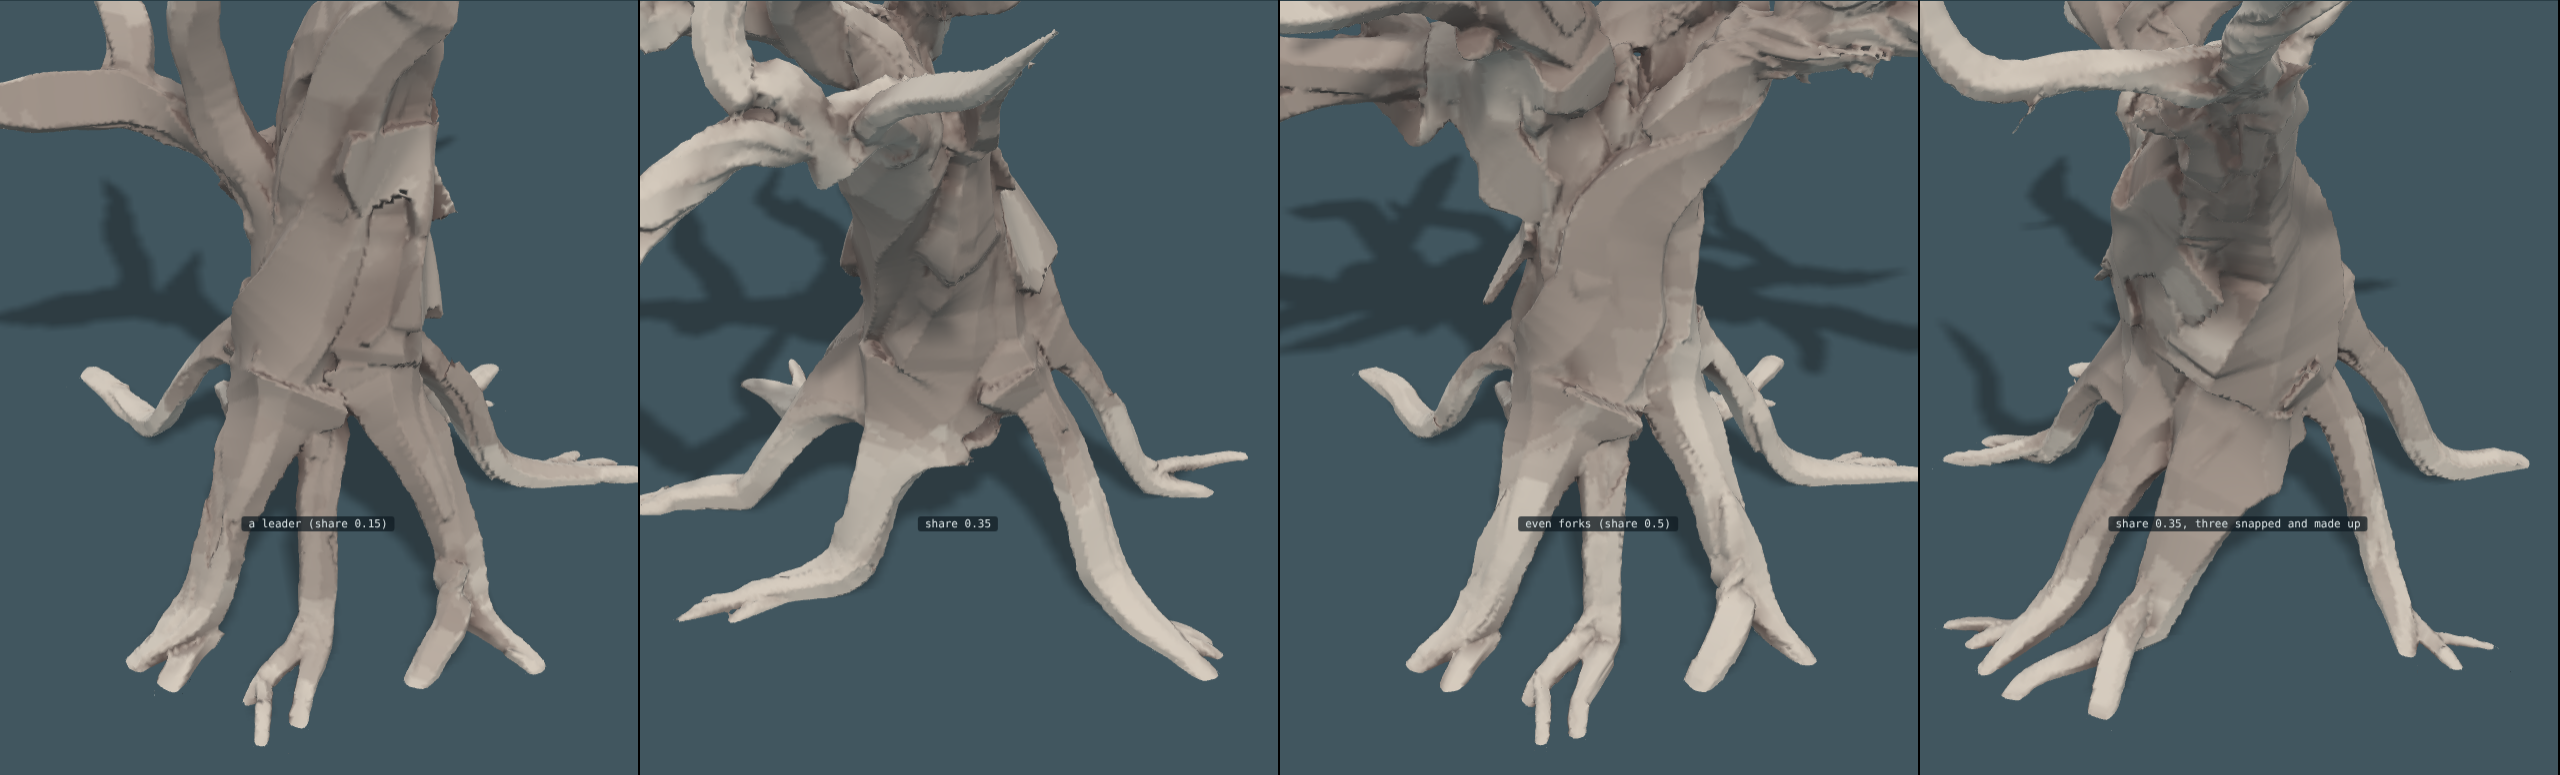
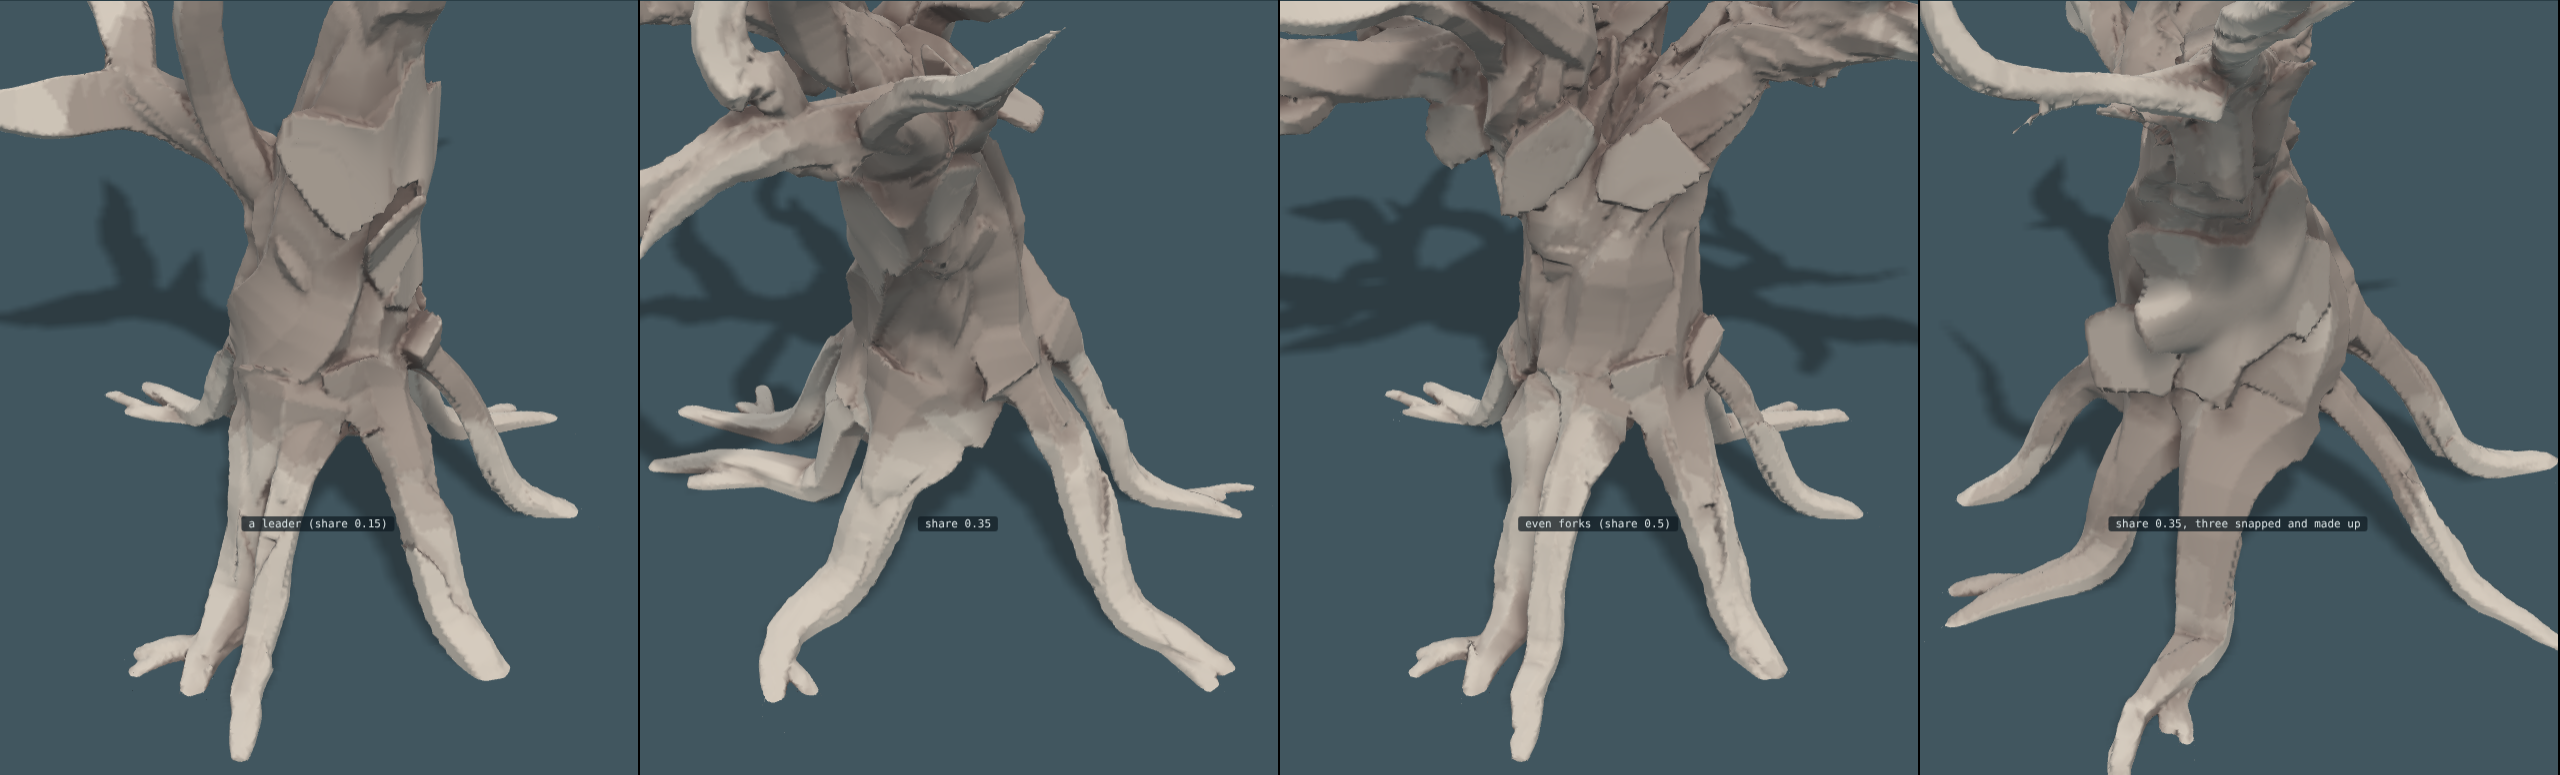
On a face a root braces: it works across the fall line in corners and bites into the rock, and only the bold ones go over
Claude-Session: https://claude.ai/code/session_0192rgp75jGkttZXf7hEakip

diff --git a/trees.js b/trees.js
@@ -30,7 +30,7 @@
   function frames(P) { let N = null; return P.map((p, i) => { const T = unit([0, 1, 2].map((k) => P[Math.min(P.length - 1, i + 1)][k] - P[Math.max(0, i - 1)][k])); N = unit((N || [1, 0, 0.2]).map((v, k, A) => v - T[k] * dot(A, T))); return [T, N, cross(T, N)]; }); }
 
   function grow(recipe) {
-    const P = Object.assign({ strands: 8, fill: 0.75, uneven: 0.5, twist: 0.5, taut: 0.3, stiff: 0.05, hug: 0.15, bind: 0.004, roots: 0.6, wind: 1.1, mixed: false, lmax: 0, set: 0, swell: 1, feet: 0, lap: 0, ground: null, down: 0.6, crease: 0.5, snake: 1, air: 0.18, reach: 0.6, hang: 0.12, forks: 1, dive: 0.12, slant: 0.75, clumps: 3, cling: 0.88, grip: 0.62, collar: 1.6, flare: 0.07, waste: 0.25, clear: 1, settle: 0, giving: 0.75, passes: 1500, ds: 0.035, seed: 1, trunk: [[0, 0.14, 0, 0.27], [0, 1.6, 0, 0.1]], limbs: [], orb: null }, recipe);
+    const P = Object.assign({ strands: 8, fill: 0.75, uneven: 0.5, twist: 0.5, taut: 0.3, stiff: 0.05, hug: 0.15, bind: 0.004, roots: 0.6, wind: 1.1, mixed: false, lmax: 0, set: 0, swell: 1, feet: 0, lap: 0, ground: null, down: 0.6, crease: 0.5, snake: 1, air: 0.18, reach: 0.6, hang: 0.3, bold: 0.35, brace: 0.12, bite: 1.8, forks: 1, dive: 0.12, slant: 0.75, clumps: 3, cling: 0.88, grip: 0.62, collar: 1.6, flare: 0.07, waste: 0.25, clear: 1, settle: 0, giving: 0.75, passes: 1500, ds: 0.035, seed: 1, trunk: [[0, 0.14, 0, 0.27], [0, 1.6, 0, 0.1]], limbs: [], orb: null }, recipe);
     // The ground, if the tree is given one: any function of a place that is how far it is outside the ground (less than
     // nothing inside). Without one the ground is the level at height 0, as it always was. (A grown tree is always given one, level if nothing else, so that its roots are walked.)
     const G = P.ground, gradG = G ? (x, y, z) => { const e = 0.008; return unit([G(x + e, y, z) - G(x - e, y, z), G(x, y + e, z) - G(x, y - e, z), G(x, y, z + e) - G(x, y, z - e)]); } : null, rootPts = [];
@@ -59,6 +59,11 @@
     // Going down a face or through the air counts little toward its length, so a root that leaves the level it
     // began on runs on until it has ground under it again.
     const walk = G ? (p0, away, rho0, len, dives, collar) => { const rb2 = r, rx = [], rr = [], c0 = G(p0[0], p0[1], p0[2]), most = Math.round(len / ds) * 5, kmax = ds / (2.6 * Math.max(0.025, rho0)), wob = TAU * r(), wl = 0.25 + 0.3 * r();
+      // Whether this root is one that will go over an edge at all. Most turn and run along the lip, where the
+      // soil is; a `bold` one commits to the face, and once on it braces rather than hangs. A rule that tells
+      // every root the same thing gives either a cliff no root will touch or a cliff every root pours down.
+      const bold = r() < P.bold ? 0.12 : 1;
+      let braceWay = r() < 0.5 ? 1 : -1, braceLeft = 0;
       const steepness = 0.55 + 0.9 * r();   // no two legs come down alike: one drops, the next runs out shallow
       let pos = p0, h = away, prog = 0, curl = 0, air = 0, gone = 0;
       // A root does not taper away along its length: it keeps its weight between forks and steps down at each,
@@ -67,17 +72,24 @@
       // `flare`, under half a trunk's width. (A long smooth cone from trunk to tip is a carrot, not a root.)
       const girth = (g, far) => rho0 * (collar ? P.grip * (1 + (P.collar - 1) * Math.pow(Math.max(0, 1 - far / P.flare), 1.6)) : 1) * (1 - P.waste * g) * (dives ? 1 : Math.pow(Math.min(1, (1 - g) / 0.22), 0.7) * 0.9 + 0.1);
       const room = (pr, own) => { if (Math.abs(pr[0]) > 0.97 || Math.abs(pr[2]) > 0.97) return 0; let near = 0.22; for (const q of rootPts) near = Math.min(near, H(pr[0] - q[0], pr[1] - q[1], pr[2] - q[2])); for (let e = 0; e < own; e++) near = Math.min(near, H(pr[0] - rx[e][0], pr[1] - rx[e][1], pr[2] - rx[e][2])); return near; };
-      for (let m = 1; m <= most && prog < len; m++) { const g = Math.min(1, prog / len), rad = girth(g, gone), nn = gradG(pos[0], pos[1], pos[2]), hug = rad * (0.4 + 0.22 * Math.sin(wob + TAU * gone / wl)), want = c0 + (hug - c0) * sstep(0, P.dive + P.slant * steepness * Math.max(0, c0), gone) - (dives ? 0.3 * sstep(0.72, 1, g) : 0);
+      for (let m = 1; m <= most && prog < len; m++) { const g = Math.min(1, prog / len), rad = girth(g, gone), nn = gradG(pos[0], pos[1], pos[2]), hug = rad * (0.4 + 0.22 * Math.sin(wob + TAU * gone / wl)) - rad * P.bite * Math.max(0, 1 - Math.abs(nn[1]) - 0.45) / 0.3 * Math.max(0, Math.sin(wob * 2 + TAU * gone / (wl * 0.55))), want = c0 + (hug - c0) * sstep(0, P.dive + P.slant * steepness * Math.max(0, c0), gone) - (dives ? 0.3 * sstep(0.72, 1, g) : 0);
         let tt = h.map((v, k) => v - nn[k] * dot(h, nn)); const dn = UP.map((v, k) => -(v - nn[k] * nn[1])), dl = H(dn[0], dn[1], dn[2]); if (H(tt[0], tt[1], tt[2]) < 0.2) tt = dl > 1e-6 ? dn : cross(nn, [1, 0, 0]); tt = unit(tt);
         curl = Math.max(-kmax, Math.min(kmax, curl * 0.9 + P.snake * 0.34 * kmax * (2 * r() - 1))); { const sd = cross(nn, tt); tt = unit(tt.map((v, k) => v * Math.cos(curl) + sd[k] * Math.sin(curl))); }
+        // On a face it cannot lie on, a root does not hang down it: it braces. It works across the fall line in
+        // runs, turning hard at the end of each so the turns are corners and not a curve, and it bites in — it is
+        // pressed into the rock and comes out again further along. It is gripping, not falling.
+        const onFace = Math.max(0, Math.min(1, (1 - Math.abs(nn[1]) - 0.45) / 0.3));
+        if (onFace > 0.5) { if (braceLeft <= 0) { braceWay = -braceWay; braceLeft = Math.max(2, Math.round(P.brace * (0.6 + 0.9 * r()) / ds)); } braceLeft--; } else braceLeft = 0;
+        const fall = dl > 1e-6 ? dn.map((v) => v / dl) : [0, -1, 0], acr = unit(cross(nn, fall).map((v) => v * braceWay));
+        const grip = unit([0, 1, 2].map((k) => acr[k] * 0.62 + fall[k] * 0.62));
         const side = cross(nn, tt), out = unit([pos[0] - trunk[0][0], 0, pos[2] - trunk[0][2]]); let best = null;   // (out: away from the foot. A root goes somewhere; it does not come back under the tree.)
         // A root wants ground it can lie in, so it keeps off a face it would only hang on. Without this, downhill
         // is rewarded without limit and a cliff is irresistible: every root on that side goes over the lip and
         // runs straight down the rock in parallel strands, which is a potato looking for water and not a tree.
         // `hang`: how willing it is to take a steep face at all.
-        for (const a of [-0.3, 0, 0.3]) { const c = tt.map((v, k) => v * Math.cos(a) + side[k] * Math.sin(a)), pr = pos.map((v, k) => v + c[k] * 0.07);
+        for (const a of (onFace > 0.5 ? [-1.3, -0.7, -0.3, 0, 0.3, 0.7, 1.3] : [-0.3, 0, 0.3])) { const c = tt.map((v, k) => v * Math.cos(a) + side[k] * Math.sin(a)), pr = pos.map((v, k) => v + c[k] * 0.07);
           const lie = 1 - Math.abs(gradG(pr[0], pr[1], pr[2])[1]);
-          const score = 0.7 * dot(c, out) + P.down * dot(c, dn) - (1 - P.hang) * 2.2 * lie * lie - P.crease * Math.min(1, Math.max(0, G(pr[0] + nn[0] * 0.07, pr[1] + nn[1] * 0.07, pr[2] + nn[2] * 0.07)) / 0.07) + 2.4 * room(pr, rx.length - 12) / 0.22 + (a === 0 ? 0.15 : 0) + 0.1 * r(); if (!best || score > best.score) best = { score, c }; }
+          const score = (1 - onFace) * (0.7 * dot(c, out) + P.down * dot(c, dn)) + onFace * 3.2 * dot(c, grip) - bold * (1 - P.hang) * 2.2 * lie * lie * (1 - onFace) - P.crease * Math.min(1, Math.max(0, G(pr[0] + nn[0] * 0.07, pr[1] + nn[1] * 0.07, pr[2] + nn[2] * 0.07)) / 0.07) + 2.4 * room(pr, rx.length - 12) / 0.22 + (a === 0 ? 0.15 : 0) + 0.1 * r(); if (!best || score > best.score) best = { score, c }; }
         h = best.c; let nx = pos.map((v, k) => v + h[k] * ds);
         // it lets go only where the ground itself drops away ahead of it, and never while it is still coming down
         const ahead = pos.map((v, k) => v + h[k] * 0.16), falls = G(ahead[0], ahead[1], ahead[2]) - G(pos[0], pos[1], pos[2]) > 0.1;
@@ -102,7 +114,7 @@
         if (Math.abs(nx[0]) > 0.92 || Math.abs(nx[2]) > 0.92) break;   // a root stays on the ground it was given
         // coming down to the ground counts little toward its length. Going down a face is not free any more: it was,
         // and a root that went over a lip then ran on to the bottom of the cliff however far that was.
-        const coming = G(nx[0], nx[1], nx[2]) > 3 * rad; prog += ds * (coming ? 0.3 : 1); gone += H(nx[0] - pos[0], nx[1] - pos[1], nx[2] - pos[2]); pos = nx; rx.push(nx); rr.push(rad); }   // (gone is real distance: counted as ds while the step also drops, the descent comes out far steeper than `slant` asks)
+        const coming = G(nx[0], nx[1], nx[2]) > 3 * rad, working = onFace > 0.5 && bold < 1; prog += ds * (coming ? 0.3 : working ? 0.5 : 1); gone += H(nx[0] - pos[0], nx[1] - pos[1], nx[2] - pos[2]); pos = nx; rx.push(nx); rr.push(rad); }   // (gone is real distance: counted as ds while the step also drops, the descent comes out far steeper than `slant` asks)
       return { rx, rr }; } : null;
     // every strand has a place in the bundle's section, and a girth of its own (mixed: most thin, a few heavy)
     const S = Array.from({ length: n }, (_, j) => { const d = Math.sqrt((j + 0.5) / n), a = j * GA + 0.5 * (r() - 0.5); return { a: d * Math.cos(a), b: d * Math.sin(a), fat: P.mixed ? 0.35 + 1.9 * Math.pow(r(), 2.5) : 1 + P.uneven * (r() - 0.5), limb: -1, give: r() < P.giving ? 1 : 0.25 * r() }; });

diff --git a/sketch/page11.js b/sketch/page11.js
@@ -19,13 +19,13 @@
   const bowl = (c, R, squash = [1, 1, 1]) => (x, y, z) => H((x - c[0]) / squash[0], (y - c[1]) / squash[1], (z - c[2]) / squash[2]) - R;
   const SITES = [
     ['on a slope', all(under([0.38, 1, 0.1], [0, 0.42, 0]), rock([0.42, 0.3, 0.3], 0.24, 3), rock([-0.5, 0.62, -0.35], 0.2, 5)), [0, 0], 1],
-    ['at a cliff edge', all(both(under([0, 1, 0.05], [0, 0.62, 0]), under([1, 0.18, 0], [0.14, 0.3, 0])), under([-0.08, 1, 0], [0, 0.07, 0]), rock([0.55, 0.1, -0.4], 0.2, 7)), [-0.17, 0.02], 2],
+    ['at a cliff edge', all(both(under([0, 1, 0.05], [0, 0.62, 0]), under([1, 0.18, 0], [0.14, 0.3, 0])), under([-0.08, 1, 0], [0, 0.07, 0]), rock([0.55, 0.1, -0.4], 0.2, 7)), [-0.04, 0.02], 2],
     ['on a boulder', all(under([0.05, 1, -0.05], [0, 0.1, 0]), rock([0, 0.32, 0], 0.4, 11, [1.1, 0.85, 1])), [0.03, 0.02], 3],
     ['in a cleft', all(under([0, 1, 0.06], [0, 0.08, 0]), rock([-0.5, 0.3, 0.02], 0.36, 13, [1, 1.1, 1.2]), rock([0.5, 0.28, -0.04], 0.36, 17, [1, 1.05, 1.2])), [0, 0], 4],
     ['on a bank the rain has cut away', cut(all(under([0.1, 1, 0.3], [0, 0.46, 0]), rock([0.55, 0.12, -0.5], 0.18, 19)), bowl([0.2, 0.18, 0.34], 0.52, [1, 0.75, 1])), [-0.1, -0.06], 6],
   ];
   const quick = typeof location !== 'undefined' ? +new URLSearchParams(location.search).get('h') : 0;   // ?h=0.013 for a quick look
-  const S = SITES.map(([name, ground, site, seed]) => [name, tree(Object.assign({ seed }, Trees.sprout({ seed, strands: 14, feet: 6, foot: 0.16, tall: 0.8, reach: 0.85, twig: 0.2, ground, site, roots: 0.65 })))]);
+  const S = SITES.map(([name, ground, site, seed]) => [name, tree(Object.assign({ seed }, Trees.sprout({ seed, strands: 14, feet: 6, foot: 0.16, tall: 0.8, reach: 0.85, twig: 0.2, ground, site, roots: 0.85 })))]);
   if (typeof location !== 'undefined') { const only = new URLSearchParams(location.search).get('only'); if (only) { const keep = only.split(',').map(Number).map((i) => S[i]).filter(Boolean); S.length = 0; S.push(...keep); } }   // ?only=2 builds just that one
   window.Fantastic = { grounds: SITES.map((s) => s[1]), fields: S.map((s) => s[1]), names: S.map((s) => s[0]), orbs: S.map((s) => s[1].orb), counts: S.map((s) => s[1].count), build: (i) => { const g = mesh(S[i][1], S[i][0], quick || 0.0085, 2.05), n = g.pos.length / 3; g.layer = new Uint8Array(n); for (let q = 0; q < n; q++) g.layer[q] = S[i][1].layerAt(g.pos[q * 3] - g.nrm[q * 3] * 0.004, g.pos[q * 3 + 1] - g.nrm[q * 3 + 1] * 0.004, g.pos[q * 3 + 2] - g.nrm[q * 3 + 2] * 0.004); return g; }, mesh, kit: Fantastic.kit };
 })();

diff --git a/LOG.md b/LOG.md
@@ -3400,3 +3400,52 @@ Wrong, or not there:
   root on a face ought to work across it, finding ledges.
 - Nothing prefers the lip itself, where in a real cliff-edge tree the
   heaviest roots run along the edge like a hem.
+
+## On a face a root braces
+
+Said: roots should go over the cliff, or even through it, but then turn
+angularly back into it or up against it — force and grip, an organism
+fighting for its place in the wilderness. The entry above had made them
+keep off the face altogether, which answers the potato but not this.
+
+Three rules, which together are one: what a root does on a face is not
+what it does in soil.
+
+- **Which roots go.** Keeping every root off a cliff and letting every
+  root down it are the same mistake, a rule that tells them all the same
+  thing. Each root now has a disposition: most turn and run along the lip
+  where the soil is, and a `bold` one (0.35 of them) commits to the face.
+- **What it does there.** It braces. It works across the fall line in
+  runs of `brace` (0.12), turning hard at the end of each so the turns
+  are corners and not a curve, and the runs carry it down: across and
+  down, across and down. On a face it can choose a turn of up to 75
+  degrees, where in soil it may only lean 17.
+- **It bites.** Its standoff from the surface goes negative on a face
+  (`bite` 1.8 of its own girth), on a wavelength of its own, so it is
+  pressed into the rock and comes out again further along. That is the
+  "or through even".
+
+And a root working a face spends half its length doing so, where it
+spends all of it in soil — it is gripping, which is the point, not
+travelling.
+
+`sketch/page11.png`, `-other-side`, `-foot`. At the cliff one root goes
+over the lip and works down the face to the ground in corners, half
+buried as it goes, while the others hold the flat. On the boulder the
+same rule puts roots down the stone's sides. Withdrawn:
+`sketch/page11-no-grip-withdrawn.png`.
+
+Page 7's four trees are unchanged. Page 9's are not, and this is worth
+recording: nothing in the rule touches level ground, where a face cannot
+occur — but asking each root whether it is bold draws a random number,
+which moves every draw after it. The trees are the same in kind and the
+pictures are remade (`sketch/page9.png`, `-foot`, `-from-above`). Page 7
+escaped only because it has no ground at all, so the walk never runs.
+
+Wrong, or not there:
+- A root that bites into the rock does not do anything there. It is a
+  wave in its depth, not a crack it has found and gone into.
+- Nothing prefers the lip, where a cliff-edge tree runs its heaviest
+  roots along the edge like a hem.
+- Bold is drawn per root and nothing about the tree or the place changes
+  how many are bold.
